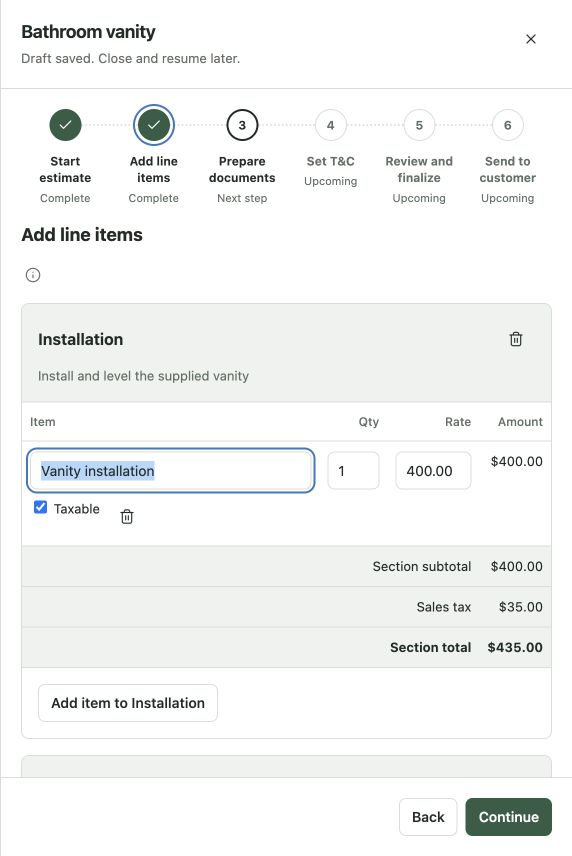
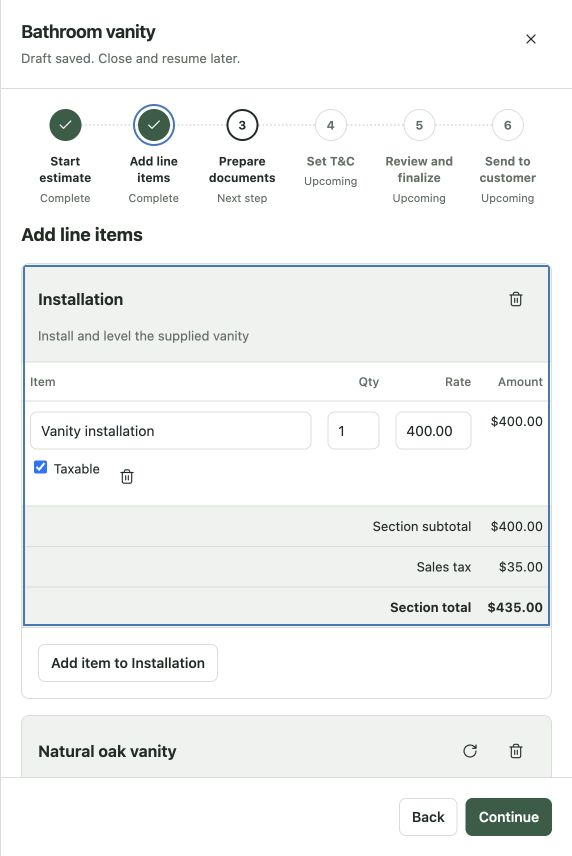
Remove unnecessary line-item instruction tooltip

diff --git a/apps/catalog/src/EstimateWorkflowPrototype.tsx b/apps/catalog/src/EstimateWorkflowPrototype.tsx
@@ -829,12 +829,6 @@ export function EstimateWorkflowPrototype() {
           )}
           {draft.step === 1 && (
             <>
-              <InfoTooltip label="line item values">
-                Use quantities greater than zero and prices at least zero.
-                Quantities round to three decimal places and USD prices round to
-                cents when leaving a field. Each choice requires at least two
-                complete alternatives. Tax applies only to taxable items.
-              </InfoTooltip>
               {renderBlocks()}
               <div {...stylex.props(layout.row, layout.wrap, gap.sm)}>
                 <Button
